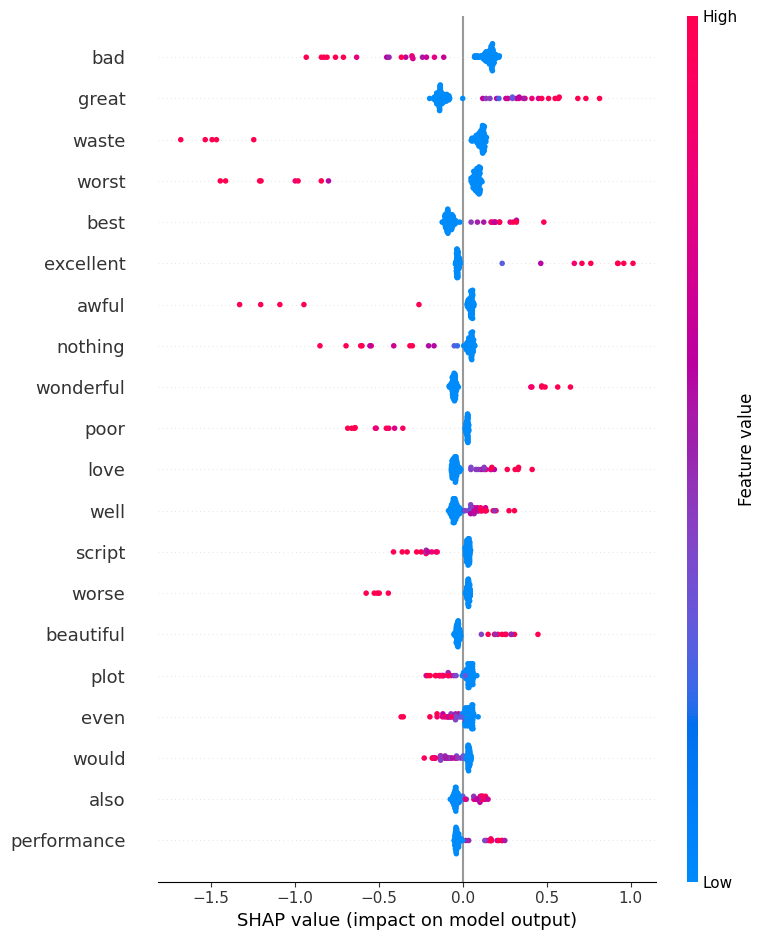
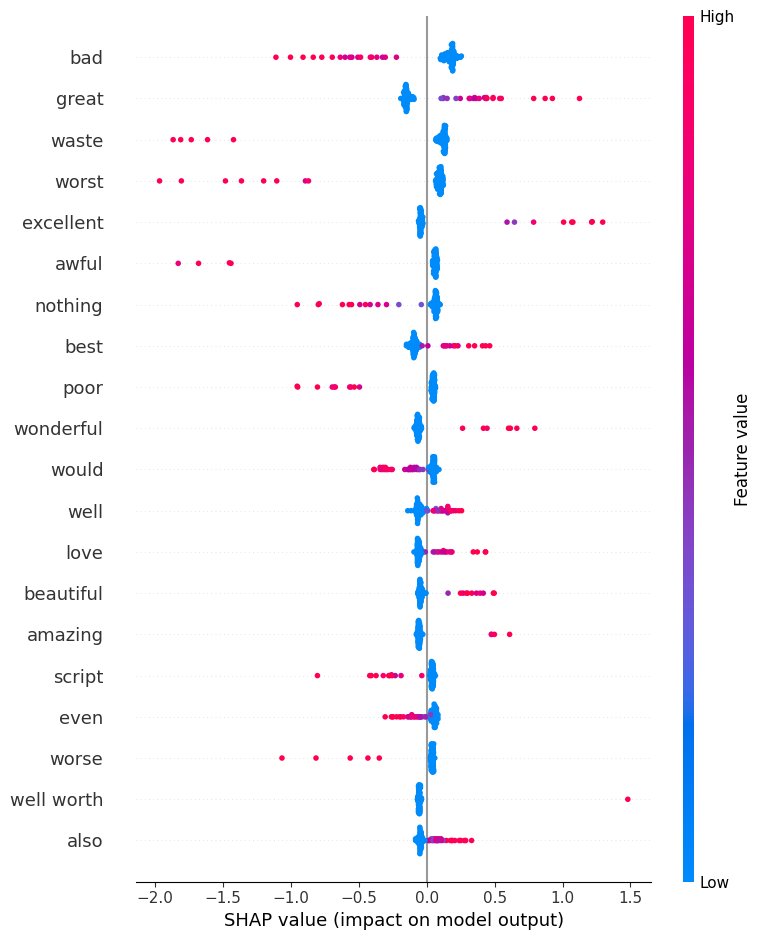
070525

diff --git a/lightgbm_model..py b/lightgbm_model..py
@@ -1,22 +1,28 @@
+# === IMPORTE ===
 import pandas as pd
+import numpy as np
 import re
 import nltk
-import numpy as np
 import time
+import shap
+import matplotlib.pyplot as plt
 from nltk.corpus import stopwords
 from nltk.stem import WordNetLemmatizer
 from sklearn.model_selection import train_test_split, RandomizedSearchCV
 from sklearn.feature_extraction.text import TfidfVectorizer
 from sklearn.metrics import classification_report
-from lightgbm import LGBMClassifier
+from lightgbm import LGBMClassifier, early_stopping
+from datetime import datetime
 
-
+# === STARTZEIT MESSUNG ===
 start_time = time.time()
+
+# === NLTK RESSOURCEN LADEN ===
 nltk.download('stopwords')
 nltk.download('wordnet')
 
-# === Daten laden & bereinigen ===
-csv_path = "/content/drive/MyDrive/Colab Notebooks/IMDB Dataset.csv"
+# === DATEN LADEN UND BEREINIGEN ===
+csv_path = "/Users/lassewesterbuhr/Documents/Uni/Bachelor/8.Semester/Forschungsprojekt/Import/IMDB Dataset.csv"
 df = pd.read_csv(csv_path)
 df['sentiment'] = df['sentiment'].map({'positive': 1, 'negative': 0})
 
@@ -26,12 +32,12 @@ stop_words = set(stopwords.words('english'))
 def clean_text(text):
     text = re.sub(r'<.*?>|[^a-zA-Z\s]', '', text).lower()
     tokens = [lemmatizer.lemmatize(word) for word in text.split()
-             if (word not in stop_words) and (len(word) > 2)]
-    return ' '.join(tokens[:400])  # Kürzere Texte
+              if (word not in stop_words) and (len(word) > 2)]
+    return ' '.join(tokens[:400])
 
 df['review_clean'] = df['review'].apply(clean_text)
 
-# === Datenaufteilung ===
+# === DATENAUFTEILUNG ===
 X_train_text, X_test_text, y_train, y_test = train_test_split(
     df['review_clean'],
     df['sentiment'],
@@ -40,7 +46,7 @@ X_train_text, X_test_text, y_train, y_test = train_test_split(
     random_state=42
 )
 
-# === Kritische Änderung 3: Sparsame Feature-Extraktion ===
+# === TF-IDF VEKTORISIERUNG ===
 vectorizer = TfidfVectorizer(
     max_features=8000,
     ngram_range=(1, 3),
@@ -49,38 +55,41 @@ vectorizer = TfidfVectorizer(
     max_df=0.9
 )
 
-X_train = vectorizer.fit_transform(X_train_text)  # Bleibt sparse
+X_train = vectorizer.fit_transform(X_train_text)
 X_test = vectorizer.transform(X_test_text)
 
-# === Kritische Änderung 4: GPU-Parameter für LightGBM ===
-param_dist = {
-    'learning_rate': [0.02, 0.05, 0.08],
-    'num_leaves': [127, 255, 511],
-    'max_depth': [-1, 10, 15],
-    'min_child_samples': [30, 50],
-    'subsample': [0.6, 0.8],
-    'colsample_bytree': [0.6, 0.8],
-    'reg_alpha': [0, 0.1, 0.2],
-    'reg_lambda': [0, 0.1, 0.2],
-    'n_estimators': [400, 600],
-    'scale_pos_weight': [1, 2]  # Für Klassenbalance
-}
+# Für SHAP als DataFrame mit Feature-Namen
+feature_names = vectorizer.get_feature_names_out()
+X_train_df = pd.DataFrame(X_train.toarray(), columns=feature_names)
+X_test_df = pd.DataFrame(X_test.toarray(), columns=feature_names)
 
+# === HYPERPARAMETER-TUNING ===
+param_dist = {
+    'learning_rate': [0.1],
+    'num_leaves': [63],
+    'max_depth': [6],
+    'n_estimators': [1000],
+    'min_data_in_leaf': [10],
+    'bagging_fraction': [0.8],
+    'feature_fraction': [0.8],
+    'min_split_gain': [0.0],
+}
 
 lgb_model = LGBMClassifier(
     objective='binary',
     random_state=42,
     verbosity=-1,
-    n_jobs=1  # Wichtig für Stabilität!
+    n_jobs=1,
+    n_estimators=2000,
+    callbacks=[early_stopping(stopping_rounds=20)]
 )
 
-# === Kritische Änderung 5: Reduzierte Parallelität ===
 random_search = RandomizedSearchCV(
     estimator=lgb_model,
     param_distributions=param_dist,
-    n_iter=15,
+    n_iter=100,
     scoring='f1',
-    cv=3,
+    cv=2,
     verbose=2,
     random_state=42,
     n_jobs=1
@@ -88,9 +97,118 @@ random_search = RandomizedSearchCV(
 
 random_search.fit(X_train, y_train)
 
-# === Auswertung ===
+# === SPEICHERE ERGEBNISSE ===
+def save_search_results_txt(search_object, filename):
+    with open(filename, "w") as f:
+        f.write("Beste Parameter:\n")
+        for param, value in search_object.best_params_.items():
+            f.write(f"{param}: {value}\n")
+        f.write(f"\nBestes Ergebnis (Score): {search_object.best_score_:.4f}\n")
+
+        f.write("\nAlle getesteten Parameterkombinationen und Scores:\n")
+        for i, res in enumerate(search_object.cv_results_['params']):
+            score = search_object.cv_results_['mean_test_score'][i]
+            f.write(f"{i + 1}. {res} | Score: {score:.4f}\n")
+    print(f"Ergebnisse gespeichert in: {filename}")
+
+save_search_results_txt(random_search, "lgbm_random_search_results8.txt")
+
+# === EVALUATION ===
 best_model = random_search.best_estimator_
 y_pred = best_model.predict(X_test)
 print("\nClassification Report:\n", classification_report(y_test, y_pred))
 
-print(f"\nGesamtlaufzeit: {time.time() - start_time:.2f} Sekunden")
+# === SHAP ANALYSE ===
+# === DataFrame aus Sparse-Matrix erstellen (falls noch nicht geschehen) ===
+X_train_df = pd.DataFrame.sparse.from_spmatrix(X_train, columns=vectorizer.get_feature_names_out())
+X_test_df = pd.DataFrame.sparse.from_spmatrix(X_test, columns=vectorizer.get_feature_names_out())
+
+# === SHAP Explainer und Werte berechnen ===
+import datetime
+explainer = shap.Explainer(best_model, X_train_df)
+shap_values = explainer(X_test_df)
+
+# === Funktion: Extremfall auswählen ===
+def get_example_by_confidence(shap_values, explainer, type='high'):
+    fx = shap_values.values.sum(axis=1) + explainer.expected_value
+    if type == 'high':
+        idx = np.argmax(fx)
+    elif type == 'low':
+        idx = np.argmin(fx)
+    elif type == 'mid':
+        idx = np.argmin(np.abs(fx - 0.5))
+    else:
+        raise ValueError("Ungültiger Typ: 'high', 'low' oder 'mid'")
+    return idx, fx[idx]
+
+# === Funktion: Plot & Text speichern ===
+def save_decision_plot(idx, score, label, shap_values, explainer, X_test_df, X_test_text, df, best_model):
+    timestamp = datetime.datetime.now().strftime("%Y%m%d_%H%M")
+    shap_val = shap_values[idx]
+    cleaned_text = X_test_text.iloc[idx]
+    original_index = X_test_text.index[idx]
+    original_text = df.loc[original_index, "review"]
+    prediction = best_model.predict([X_test_df.iloc[idx]])[0]
+    prediction_label = "positiv" if prediction == 1 else "negativ"
+
+    # === SHAP Decision Plot erzeugen ===
+    shap.plots.waterfall(shap_val, max_display=20, show=False)
+    filename_plot = f"shap_decisionplot_{label}_{timestamp}.png"
+    plt.savefig(filename_plot, bbox_inches="tight")
+    plt.close()
+
+    # === SHAP Textbericht ===
+    filename_txt = f"shap_review_{label}_{timestamp}.txt"
+    with open(filename_txt, "w", encoding="utf-8") as f:
+        f.write(f"SHAP Decision Plot: {label.capitalize()} Confidence\n")
+        f.write(f"Index im Testset: {idx}\n\n")
+
+        f.write("=== Original Review (unbereinigt) ===\n")
+        f.write(original_text.strip() + "\n\n")
+
+        f.write("=== Bereinigter Text ===\n")
+        f.write(cleaned_text.strip() + "\n\n")
+
+        f.write("=== Modellvorhersage ===\n")
+        f.write(f"f(x) = {score:.4f}\n")
+        f.write("→ Klassifikation: " + prediction_label + "\n\n")
+
+        f.write("=== Top SHAP-Wörter ===\n")
+        for name, val in zip(shap_val.feature_names[:20], shap_val.values[:20]):
+            f.write(f"{name}: {val:+.3f}\n")
+
+    print(f"→ Gespeichert: {filename_plot} & {filename_txt}")
+
+# === Anwendung auf drei Fälle ===
+for label in ["high", "low", "mid"]:
+    idx, score = get_example_by_confidence(shap_values, explainer, label)
+    save_decision_plot(idx, score, label, shap_values, explainer, X_test_df, X_test_text, df, best_model)
+
+
+# === SHAP Summary Plot ===
+# === SHAP-Explainer erstellen (TreeExplainer empfohlen für LightGBM) ===
+#explainer = shap.Explainer(best_model, X_train_df)
+# === SHAP-Werte für gesamten Testdatensatz berechnen ===
+#shap_values = explainer(X_test_df)
+# === Zeitstempel für Dateinamen erzeugen ===
+#timestamp = datetime.now().strftime("%Y%m%d_%H%M")
+# === Summary Plot erzeugen und speichern ===
+#shap.summary_plot(shap_values, max_display=20, show=False)
+#plt.tight_layout()
+#plt.savefig(f"shap_summary_lightgbm_fullset_{timestamp}.png", bbox_inches="tight", dpi=300)
+
+# === Bar Plot
+# Erzeuge Zeitstempel im Format YYYYMMDD_HHMM
+#timestamp = datetime.now().strftime("%Y%m%d_%H%M")
+# SHAP-Werte berechnen (falls noch nicht erfolgt)
+#explainer = shap.Explainer(best_model, X_train_df)
+#shap_values = explainer(X_test_df)
+# Barplot speichern mit Zeitstempel
+#plt.title("Globale Feature-Wichtigkeit (SHAP Bar Plot)")
+#shap.plots.bar(shap_values, max_display=20, show=False)
+#plt.tight_layout()
+#plt.savefig(f"shap_barplot_lightgbm_{timestamp}.png", dpi=300, bbox_inches="tight")
+
+
+# === GESAMTLAUFZEIT ===
+print(f"\nGesamtlaufzeit: {round(time.time() - start_time, 2)} Sekunden")

diff --git a/LSTM.py b/LSTM.py
@@ -195,3 +195,4 @@ print(classification_report(y_test, y_pred))
 # === PERFORMANCE-MESSUNG ===
 end_time = time.time()
 print(f"Gesamtlaufzeit: {round(end_time - start_time, 2)} Sekunden")
+
